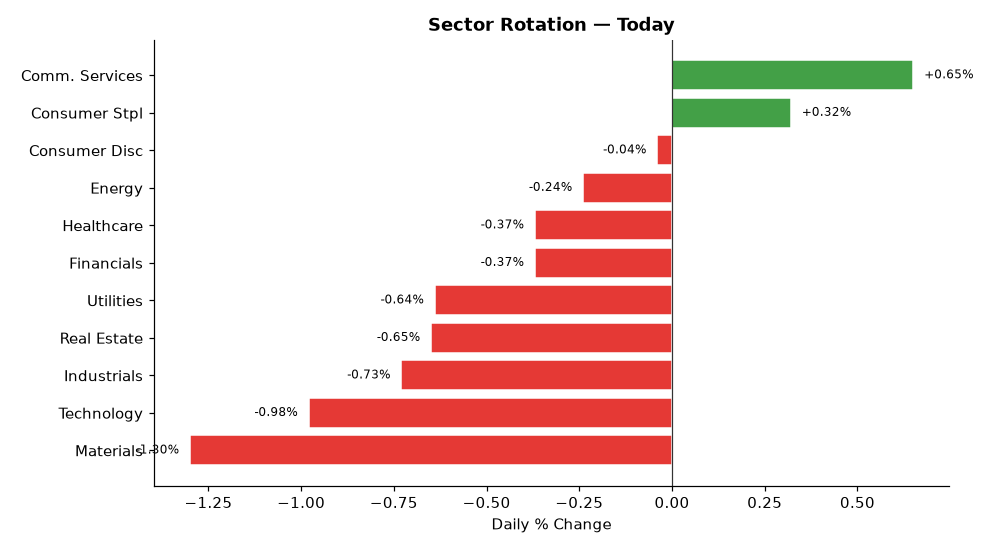
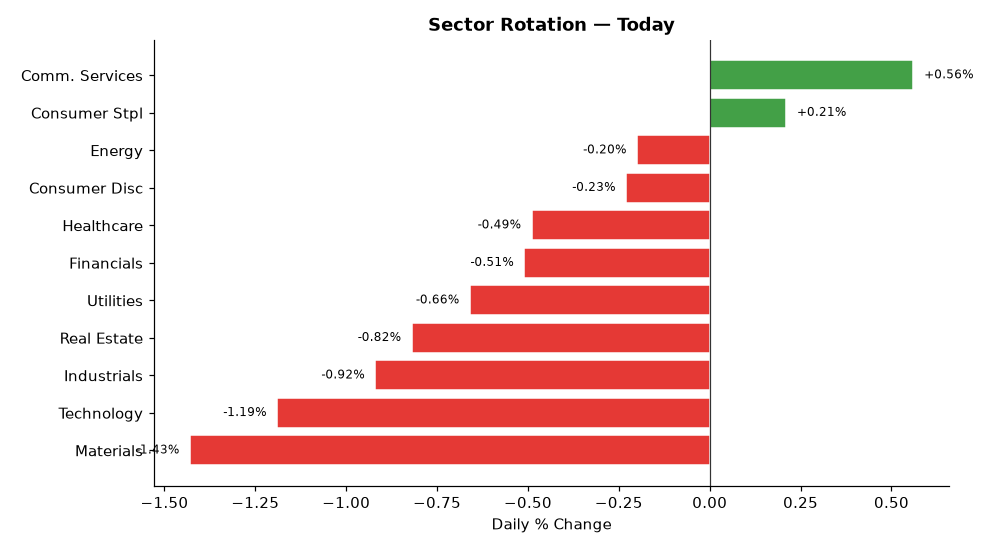
deploy: b7fadf5b06deb90e7ebb92f278722414bdd9750d

diff --git a/index.html b/index.html
@@ -4,7 +4,7 @@
   <meta charset="UTF-8">
   <meta name="viewport" content="width=device-width,initial-scale=1">
   <meta http-equiv="Cache-Control" content="no-cache,no-store,must-revalidate">
-  <title>Stock Breakout Screener — 2026-09-10 17:03</title>
+  <title>Stock Breakout Screener — 2026-09-10 17:46</title>
   <style>
     *{box-sizing:border-box;margin:0;padding:0}
     body{font-family:'Segoe UI',Arial,sans-serif;background:#f0f2f5;
@@ -34,7 +34,7 @@
 
 <div class="hdr">
   <h1>📈 Stock Breakout Screener</h1>
-  <p>Updated: 2026-09-10 17:03 UTC &nbsp;·&nbsp; Phase: Regular Market Hours &nbsp;·&nbsp;
+  <p>Updated: 2026-09-10 17:46 UTC &nbsp;·&nbsp; Phase: Regular Market Hours &nbsp;·&nbsp;
      129 stocks screened &nbsp;·&nbsp; Top 5 by conviction score</p>
 </div>
 
@@ -69,7 +69,7 @@
             </span>
           </div>
           <ul style="margin:0;padding-left:18px;font-size:13px;
-                     color:#333;line-height:1.8"><li style="margin:5px 0"><span style="background:#ffebee;color:#b71c1c;padding:2px 7px;border-radius:4px;font-size:11px;">❌</span> Volume: <b>0.4× average</b> — Above-average activity</li><li style="margin:5px 0"><span style="background:#e8f5e9;color:#2e7d32;padding:2px 7px;border-radius:4px;font-size:11px;">✅</span> Candle: close <b>$181.91</b> vs open <b>$172.13</b> (+5.7%) — regular market close</li><li style="margin:5px 0"><span style="background:#e8f5e9;color:#2e7d32;padding:2px 7px;border-radius:4px;font-size:11px;">✅</span> 200-Day MA: price <b>$181.91</b> vs MA <b>$171.57</b> — <b>✅ Above</b> long-term trend</li><li style="margin:5px 0"><span style="background:#e8f5e9;color:#2e7d32;padding:2px 7px;border-radius:4px;font-size:11px;">✅</span> Inst. ownership: <b>83.2%</b> · MFI: <b>78.1</b> · Market cap: <b>$194.3B</b></li><li style="margin:5px 0"><span style="background:#e8f5e9;color:#2e7d32;padding:2px 7px;border-radius:4px;font-size:11px;">✅</span> Last similar breakout: <b>May 07, 2026</b> → <b>+5.4%</b> over 10 trading days</li></ul>
+                     color:#333;line-height:1.8"><li style="margin:5px 0"><span style="background:#ffebee;color:#b71c1c;padding:2px 7px;border-radius:4px;font-size:11px;">❌</span> Volume: <b>0.5× average</b> — Above-average activity</li><li style="margin:5px 0"><span style="background:#e8f5e9;color:#2e7d32;padding:2px 7px;border-radius:4px;font-size:11px;">✅</span> Candle: close <b>$179.46</b> vs open <b>$172.13</b> (+4.3%) — regular market close</li><li style="margin:5px 0"><span style="background:#e8f5e9;color:#2e7d32;padding:2px 7px;border-radius:4px;font-size:11px;">✅</span> 200-Day MA: price <b>$179.46</b> vs MA <b>$171.56</b> — <b>✅ Above</b> long-term trend</li><li style="margin:5px 0"><span style="background:#e8f5e9;color:#2e7d32;padding:2px 7px;border-radius:4px;font-size:11px;">✅</span> Inst. ownership: <b>83.2%</b> · MFI: <b>78.3</b> · Market cap: <b>$191.7B</b></li><li style="margin:5px 0"><span style="background:#e8f5e9;color:#2e7d32;padding:2px 7px;border-radius:4px;font-size:11px;">✅</span> Last similar breakout: <b>May 07, 2026</b> → <b>+5.4%</b> over 10 trading days</li></ul>
         </div>
         <div style="background:#fff;border:1px solid #ddd;border-radius:10px;
                     padding:16px 20px;margin-bottom:12px;
@@ -86,7 +86,7 @@
             </span>
           </div>
           <ul style="margin:0;padding-left:18px;font-size:13px;
-                     color:#333;line-height:1.8"><li style="margin:5px 0"><span style="background:#ffebee;color:#b71c1c;padding:2px 7px;border-radius:4px;font-size:11px;">❌</span> Volume: <b>0.7× average</b> — Above-average activity</li><li style="margin:5px 0"><span style="background:#ffebee;color:#b71c1c;padding:2px 7px;border-radius:4px;font-size:11px;">❌</span> Candle: close <b>$651.76</b> vs open <b>$653.60</b> (-0.3%) — regular market close</li><li style="margin:5px 0"><span style="background:#e8f5e9;color:#2e7d32;padding:2px 7px;border-radius:4px;font-size:11px;">✅</span> 200-Day MA: price <b>$651.76</b> vs MA <b>$605.39</b> — <b>✅ Above</b> long-term trend</li><li style="margin:5px 0"><span style="background:#e8f5e9;color:#2e7d32;padding:2px 7px;border-radius:4px;font-size:11px;">✅</span> Inst. ownership: <b>79.1%</b> · MFI: <b>82.7</b> · Market cap: <b>$1660.4B</b></li></ul>
+                     color:#333;line-height:1.8"><li style="margin:5px 0"><span style="background:#ffebee;color:#b71c1c;padding:2px 7px;border-radius:4px;font-size:11px;">❌</span> Volume: <b>0.7× average</b> — Above-average activity</li><li style="margin:5px 0"><span style="background:#ffebee;color:#b71c1c;padding:2px 7px;border-radius:4px;font-size:11px;">❌</span> Candle: close <b>$649.64</b> vs open <b>$653.60</b> (-0.6%) — regular market close</li><li style="margin:5px 0"><span style="background:#e8f5e9;color:#2e7d32;padding:2px 7px;border-radius:4px;font-size:11px;">✅</span> 200-Day MA: price <b>$649.64</b> vs MA <b>$605.37</b> — <b>✅ Above</b> long-term trend</li><li style="margin:5px 0"><span style="background:#e8f5e9;color:#2e7d32;padding:2px 7px;border-radius:4px;font-size:11px;">✅</span> Inst. ownership: <b>79.1%</b> · MFI: <b>82.8</b> · Market cap: <b>$1654.9B</b></li></ul>
         </div>
         <div style="background:#fff;border:1px solid #ddd;border-radius:10px;
                     padding:16px 20px;margin-bottom:12px;
@@ -103,7 +103,7 @@
             </span>
           </div>
           <ul style="margin:0;padding-left:18px;font-size:13px;
-                     color:#333;line-height:1.8"><li style="margin:5px 0"><span style="background:#ffebee;color:#b71c1c;padding:2px 7px;border-radius:4px;font-size:11px;">❌</span> Volume: <b>0.3× average</b> — Above-average activity</li><li style="margin:5px 0"><span style="background:#ffebee;color:#b71c1c;padding:2px 7px;border-radius:4px;font-size:11px;">❌</span> Candle: close <b>$49.98</b> vs open <b>$50.01</b> (-0.1%) — regular market close</li><li style="margin:5px 0"><span style="background:#e8f5e9;color:#2e7d32;padding:2px 7px;border-radius:4px;font-size:11px;">✅</span> 200-Day MA: price <b>$49.98</b> vs MA <b>$46.65</b> — <b>✅ Above</b> long-term trend</li><li style="margin:5px 0"><span style="background:#e8f5e9;color:#2e7d32;padding:2px 7px;border-radius:4px;font-size:11px;">✅</span> Inst. ownership: <b>71.3%</b> · MFI: <b>64.8</b> · Market cap: <b>$207.7B</b></li></ul>
+                     color:#333;line-height:1.8"><li style="margin:5px 0"><span style="background:#ffebee;color:#b71c1c;padding:2px 7px;border-radius:4px;font-size:11px;">❌</span> Volume: <b>0.3× average</b> — Above-average activity</li><li style="margin:5px 0"><span style="background:#ffebee;color:#b71c1c;padding:2px 7px;border-radius:4px;font-size:11px;">❌</span> Candle: close <b>$49.90</b> vs open <b>$50.01</b> (-0.2%) — regular market close</li><li style="margin:5px 0"><span style="background:#e8f5e9;color:#2e7d32;padding:2px 7px;border-radius:4px;font-size:11px;">✅</span> 200-Day MA: price <b>$49.90</b> vs MA <b>$46.65</b> — <b>✅ Above</b> long-term trend</li><li style="margin:5px 0"><span style="background:#e8f5e9;color:#2e7d32;padding:2px 7px;border-radius:4px;font-size:11px;">✅</span> Inst. ownership: <b>71.3%</b> · MFI: <b>64.9</b> · Market cap: <b>$207.3B</b></li></ul>
         </div>
         <div style="background:#fff;border:1px solid #ddd;border-radius:10px;
                     padding:16px 20px;margin-bottom:12px;
@@ -120,7 +120,7 @@
             </span>
           </div>
           <ul style="margin:0;padding-left:18px;font-size:13px;
-                     color:#333;line-height:1.8"><li style="margin:5px 0"><span style="background:#ffebee;color:#b71c1c;padding:2px 7px;border-radius:4px;font-size:11px;">❌</span> Volume: <b>0.3× average</b> — Above-average activity</li><li style="margin:5px 0"><span style="background:#ffebee;color:#b71c1c;padding:2px 7px;border-radius:4px;font-size:11px;">❌</span> Candle: close <b>$25.55</b> vs open <b>$25.37</b> (+0.7%) — regular market close</li><li style="margin:5px 0"><span style="background:#e8f5e9;color:#2e7d32;padding:2px 7px;border-radius:4px;font-size:11px;">✅</span> 200-Day MA: price <b>$25.55</b> vs MA <b>$24.56</b> — <b>✅ Above</b> long-term trend</li><li style="margin:5px 0"><span style="background:#e8f5e9;color:#2e7d32;padding:2px 7px;border-radius:4px;font-size:11px;">✅</span> Inst. ownership: <b>68.6%</b> · MFI: <b>59.3</b> · Market cap: <b>$175.0B</b></li></ul>
+                     color:#333;line-height:1.8"><li style="margin:5px 0"><span style="background:#ffebee;color:#b71c1c;padding:2px 7px;border-radius:4px;font-size:11px;">❌</span> Volume: <b>0.4× average</b> — Above-average activity</li><li style="margin:5px 0"><span style="background:#ffebee;color:#b71c1c;padding:2px 7px;border-radius:4px;font-size:11px;">❌</span> Candle: close <b>$25.53</b> vs open <b>$25.37</b> (+0.6%) — regular market close</li><li style="margin:5px 0"><span style="background:#e8f5e9;color:#2e7d32;padding:2px 7px;border-radius:4px;font-size:11px;">✅</span> 200-Day MA: price <b>$25.53</b> vs MA <b>$24.56</b> — <b>✅ Above</b> long-term trend</li><li style="margin:5px 0"><span style="background:#e8f5e9;color:#2e7d32;padding:2px 7px;border-radius:4px;font-size:11px;">✅</span> Inst. ownership: <b>68.6%</b> · MFI: <b>59.5</b> · Market cap: <b>$174.9B</b></li></ul>
         </div>
         <div style="background:#fff;border:1px solid #ddd;border-radius:10px;
                     padding:16px 20px;margin-bottom:12px;
@@ -137,7 +137,7 @@
             </span>
           </div>
           <ul style="margin:0;padding-left:18px;font-size:13px;
-                     color:#333;line-height:1.8"><li style="margin:5px 0"><span style="background:#ffebee;color:#b71c1c;padding:2px 7px;border-radius:4px;font-size:11px;">❌</span> Volume: <b>0.3× average</b> — Above-average activity</li><li style="margin:5px 0"><span style="background:#ffebee;color:#b71c1c;padding:2px 7px;border-radius:4px;font-size:11px;">❌</span> Candle: close <b>$98.01</b> vs open <b>$97.25</b> (+0.8%) — regular market close</li><li style="margin:5px 0"><span style="background:#e8f5e9;color:#2e7d32;padding:2px 7px;border-radius:4px;font-size:11px;">✅</span> 200-Day MA: price <b>$98.01</b> vs MA <b>$83.87</b> — <b>✅ Above</b> long-term trend</li><li style="margin:5px 0"><span style="background:#e8f5e9;color:#2e7d32;padding:2px 7px;border-radius:4px;font-size:11px;">✅</span> Inst. ownership: <b>95.9%</b> · MFI: <b>64.9</b> · Market cap: <b>$35.5B</b></li><li style="margin:5px 0"><span style="background:#fffde7;color:#f57f17;padding:2px 7px;border-radius:4px;font-size:11px;">⚠</span> Last similar breakout: <b>Aug 19, 2026</b> → <b>+3.6%</b> over 10 trading days</li></ul>
+                     color:#333;line-height:1.8"><li style="margin:5px 0"><span style="background:#ffebee;color:#b71c1c;padding:2px 7px;border-radius:4px;font-size:11px;">❌</span> Volume: <b>0.3× average</b> — Above-average activity</li><li style="margin:5px 0"><span style="background:#ffebee;color:#b71c1c;padding:2px 7px;border-radius:4px;font-size:11px;">❌</span> Candle: close <b>$97.75</b> vs open <b>$97.25</b> (+0.5%) — regular market close</li><li style="margin:5px 0"><span style="background:#e8f5e9;color:#2e7d32;padding:2px 7px;border-radius:4px;font-size:11px;">✅</span> 200-Day MA: price <b>$97.75</b> vs MA <b>$83.87</b> — <b>✅ Above</b> long-term trend</li><li style="margin:5px 0"><span style="background:#e8f5e9;color:#2e7d32;padding:2px 7px;border-radius:4px;font-size:11px;">✅</span> Inst. ownership: <b>95.9%</b> · MFI: <b>64.8</b> · Market cap: <b>$35.4B</b></li><li style="margin:5px 0"><span style="background:#fffde7;color:#f57f17;padding:2px 7px;border-radius:4px;font-size:11px;">⚠</span> Last similar breakout: <b>Aug 19, 2026</b> → <b>+3.6%</b> over 10 trading days</li></ul>
         </div>
 
 
@@ -169,17 +169,17 @@
         <tr>
           <td style="font-weight:700;text-align:left;padding-left:10px">
             🟢 QCOM</td>
-          <td style="background:#ffcdd2">0.4×</td>
-          <td style="background:#c8e6c9">+5.7%</td>
+          <td style="background:#ffcdd2">0.5×</td>
+          <td style="background:#c8e6c9">+4.3%</td>
           <td style="background:#c8e6c9">
             ▲ Above</td>
           <td style="background:#c8e6c9">
             83.2%</td>
           <td style="background:#c8e6c9">
-            78.1</td>
+            78.3</td>
           <td style="background:#ffcdd2">Technology</td>
           <td style="background:#c8e6c9">
-            159.9%</td>
+            146.7%</td>
           <td style="background:#c8e6c9">
             +5.4%</td>
           <td style="font-weight:800;font-size:15px">12/17</td>
@@ -188,16 +188,16 @@
           <td style="font-weight:700;text-align:left;padding-left:10px">
             🟡 META</td>
           <td style="background:#ffcdd2">0.7×</td>
-          <td style="background:#ffcdd2">-0.3%</td>
+          <td style="background:#ffcdd2">-0.6%</td>
           <td style="background:#c8e6c9">
             ▲ Above</td>
           <td style="background:#c8e6c9">
             79.1%</td>
           <td style="background:#c8e6c9">
-            82.7</td>
+            82.8</td>
           <td style="background:#c8e6c9">Comm. Services</td>
           <td style="background:#c8e6c9">
-            160.4%</td>
+            136.8%</td>
           <td style="background:#ffcdd2">
             N/A</td>
           <td style="font-weight:800;font-size:15px">11/17</td>
@@ -206,16 +206,16 @@
           <td style="font-weight:700;text-align:left;padding-left:10px">
             🟡 VZ</td>
           <td style="background:#ffcdd2">0.3×</td>
-          <td style="background:#ffcdd2">-0.1%</td>
+          <td style="background:#ffcdd2">-0.2%</td>
           <td style="background:#c8e6c9">
             ▲ Above</td>
           <td style="background:#c8e6c9">
             71.3%</td>
           <td style="background:#c8e6c9">
-            64.8</td>
+            64.9</td>
           <td style="background:#c8e6c9">Comm. Services</td>
           <td style="background:#c8e6c9">
-            122.2%</td>
+            116.9%</td>
           <td style="background:#ffcdd2">
             N/A</td>
           <td style="font-weight:800;font-size:15px">11/17</td>
@@ -223,17 +223,17 @@
         <tr>
           <td style="font-weight:700;text-align:left;padding-left:10px">
             🟡 T</td>
-          <td style="background:#ffcdd2">0.3×</td>
-          <td style="background:#ffcdd2">+0.7%</td>
+          <td style="background:#ffcdd2">0.4×</td>
+          <td style="background:#ffcdd2">+0.6%</td>
           <td style="background:#c8e6c9">
             ▲ Above</td>
           <td style="background:#c8e6c9">
             68.6%</td>
           <td style="background:#fff9c4">
-            59.3</td>
+            59.5</td>
           <td style="background:#c8e6c9">Comm. Services</td>
           <td style="background:#c8e6c9">
-            151.2%</td>
+            132.0%</td>
           <td style="background:#ffcdd2">
             N/A</td>
           <td style="font-weight:800;font-size:15px">10/17</td>
@@ -242,16 +242,16 @@
           <td style="font-weight:700;text-align:left;padding-left:10px">
             🟡 EL</td>
           <td style="background:#ffcdd2">0.3×</td>
-          <td style="background:#ffcdd2">+0.8%</td>
+          <td style="background:#ffcdd2">+0.5%</td>
           <td style="background:#c8e6c9">
             ▲ Above</td>
           <td style="background:#c8e6c9">
             95.9%</td>
           <td style="background:#c8e6c9">
-            64.9</td>
+            64.8</td>
           <td style="background:#fff9c4">Consumer Stpl</td>
           <td style="background:#c8e6c9">
-            161.9%</td>
+            136.0%</td>
           <td style="background:#fff9c4">
             +3.6%</td>
           <td style="font-weight:800;font-size:15px">10/17</td>
@@ -278,57 +278,57 @@
         <tr>
           <td style="text-align:left;padding-left:10px;font-weight:600">
             #1 Comm. Services</td>
-          <td style="background:#e8f5e9;color:#2e7d32;font-weight:700">+0.65%</td>
+          <td style="background:#e8f5e9;color:#2e7d32;font-weight:700">+0.56%</td>
         </tr>
         <tr>
           <td style="text-align:left;padding-left:10px;font-weight:600">
             #2 Consumer Stpl</td>
-          <td style="background:#e8f5e9;color:#2e7d32;font-weight:700">+0.32%</td>
+          <td style="background:#e8f5e9;color:#2e7d32;font-weight:700">+0.21%</td>
         </tr>
         <tr>
           <td style="text-align:left;padding-left:10px;font-weight:600">
-            #3 Consumer Disc</td>
-          <td style="background:#ffebee;color:#c62828;font-weight:700">-0.04%</td>
+            #3 Energy</td>
+          <td style="background:#ffebee;color:#c62828;font-weight:700">-0.20%</td>
         </tr>
         <tr>
           <td style="text-align:left;padding-left:10px;font-weight:600">
-            #4 Energy</td>
-          <td style="background:#ffebee;color:#c62828;font-weight:700">-0.24%</td>
+            #4 Consumer Disc</td>
+          <td style="background:#ffebee;color:#c62828;font-weight:700">-0.23%</td>
         </tr>
         <tr>
           <td style="text-align:left;padding-left:10px;font-weight:600">
             #5 Healthcare</td>
-          <td style="background:#ffebee;color:#c62828;font-weight:700">-0.37%</td>
+          <td style="background:#ffebee;color:#c62828;font-weight:700">-0.49%</td>
         </tr>
         <tr>
           <td style="text-align:left;padding-left:10px;font-weight:600">
             #6 Financials</td>
-          <td style="background:#ffebee;color:#c62828;font-weight:700">-0.37%</td>
+          <td style="background:#ffebee;color:#c62828;font-weight:700">-0.51%</td>
         </tr>
         <tr>
           <td style="text-align:left;padding-left:10px;font-weight:600">
             #7 Utilities</td>
-          <td style="background:#ffebee;color:#c62828;font-weight:700">-0.64%</td>
+          <td style="background:#ffebee;color:#c62828;font-weight:700">-0.66%</td>
         </tr>
         <tr>
           <td style="text-align:left;padding-left:10px;font-weight:600">
             #8 Real Estate</td>
-          <td style="background:#ffebee;color:#c62828;font-weight:700">-0.65%</td>
+          <td style="background:#ffebee;color:#c62828;font-weight:700">-0.82%</td>
         </tr>
         <tr>
           <td style="text-align:left;padding-left:10px;font-weight:600">
             #9 Industrials</td>
-          <td style="background:#ffebee;color:#c62828;font-weight:700">-0.73%</td>
+          <td style="background:#ffebee;color:#c62828;font-weight:700">-0.92%</td>
         </tr>
         <tr>
           <td style="text-align:left;padding-left:10px;font-weight:600">
             #10 Technology</td>
-          <td style="background:#ffebee;color:#c62828;font-weight:700">-0.98%</td>
+          <td style="background:#ffebee;color:#c62828;font-weight:700">-1.19%</td>
         </tr>
         <tr>
           <td style="text-align:left;padding-left:10px;font-weight:600">
             #11 Materials</td>
-          <td style="background:#ffebee;color:#c62828;font-weight:700">-1.30%</td>
+          <td style="background:#ffebee;color:#c62828;font-weight:700">-1.43%</td>
         </tr>
     </table>
   </div>
@@ -367,7 +367,7 @@
         <li><b>Scoring weights:</b>
             Inst.Own(3) · Sector(3) · Volume(2) · Breakout(2) ·
             MA200(2) · MFI(2) · History(2) · IV(1) = 17pts max</li>
-        <li><b>Run time:</b> 2026-09-10 17:03 UTC — Market phase: Regular Market Hours</li>
+        <li><b>Run time:</b> 2026-09-10 17:46 UTC — Market phase: Regular Market Hours</li>
       </ul>
     </div>
 
